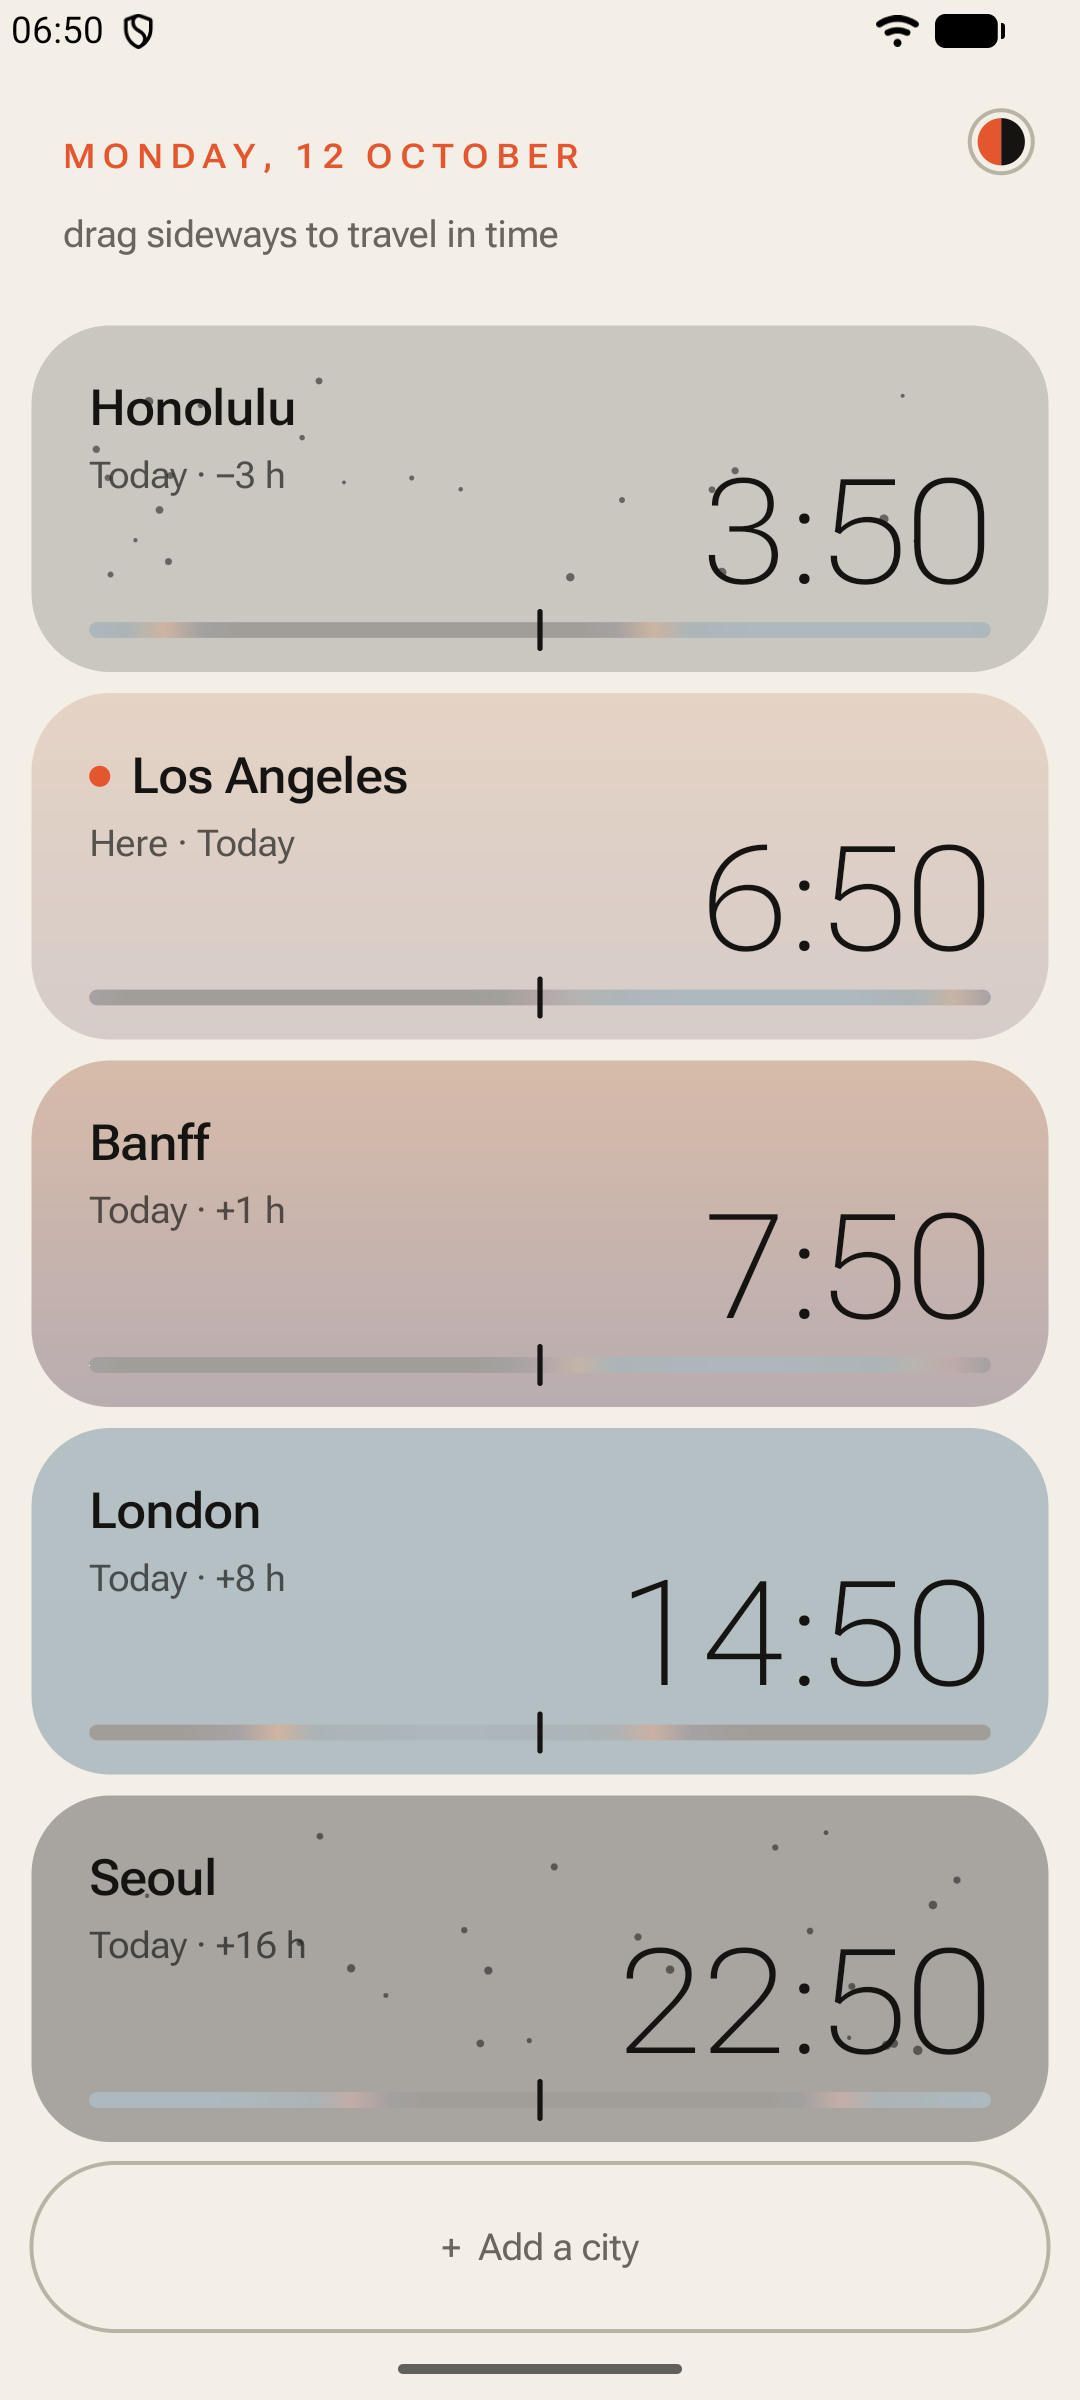
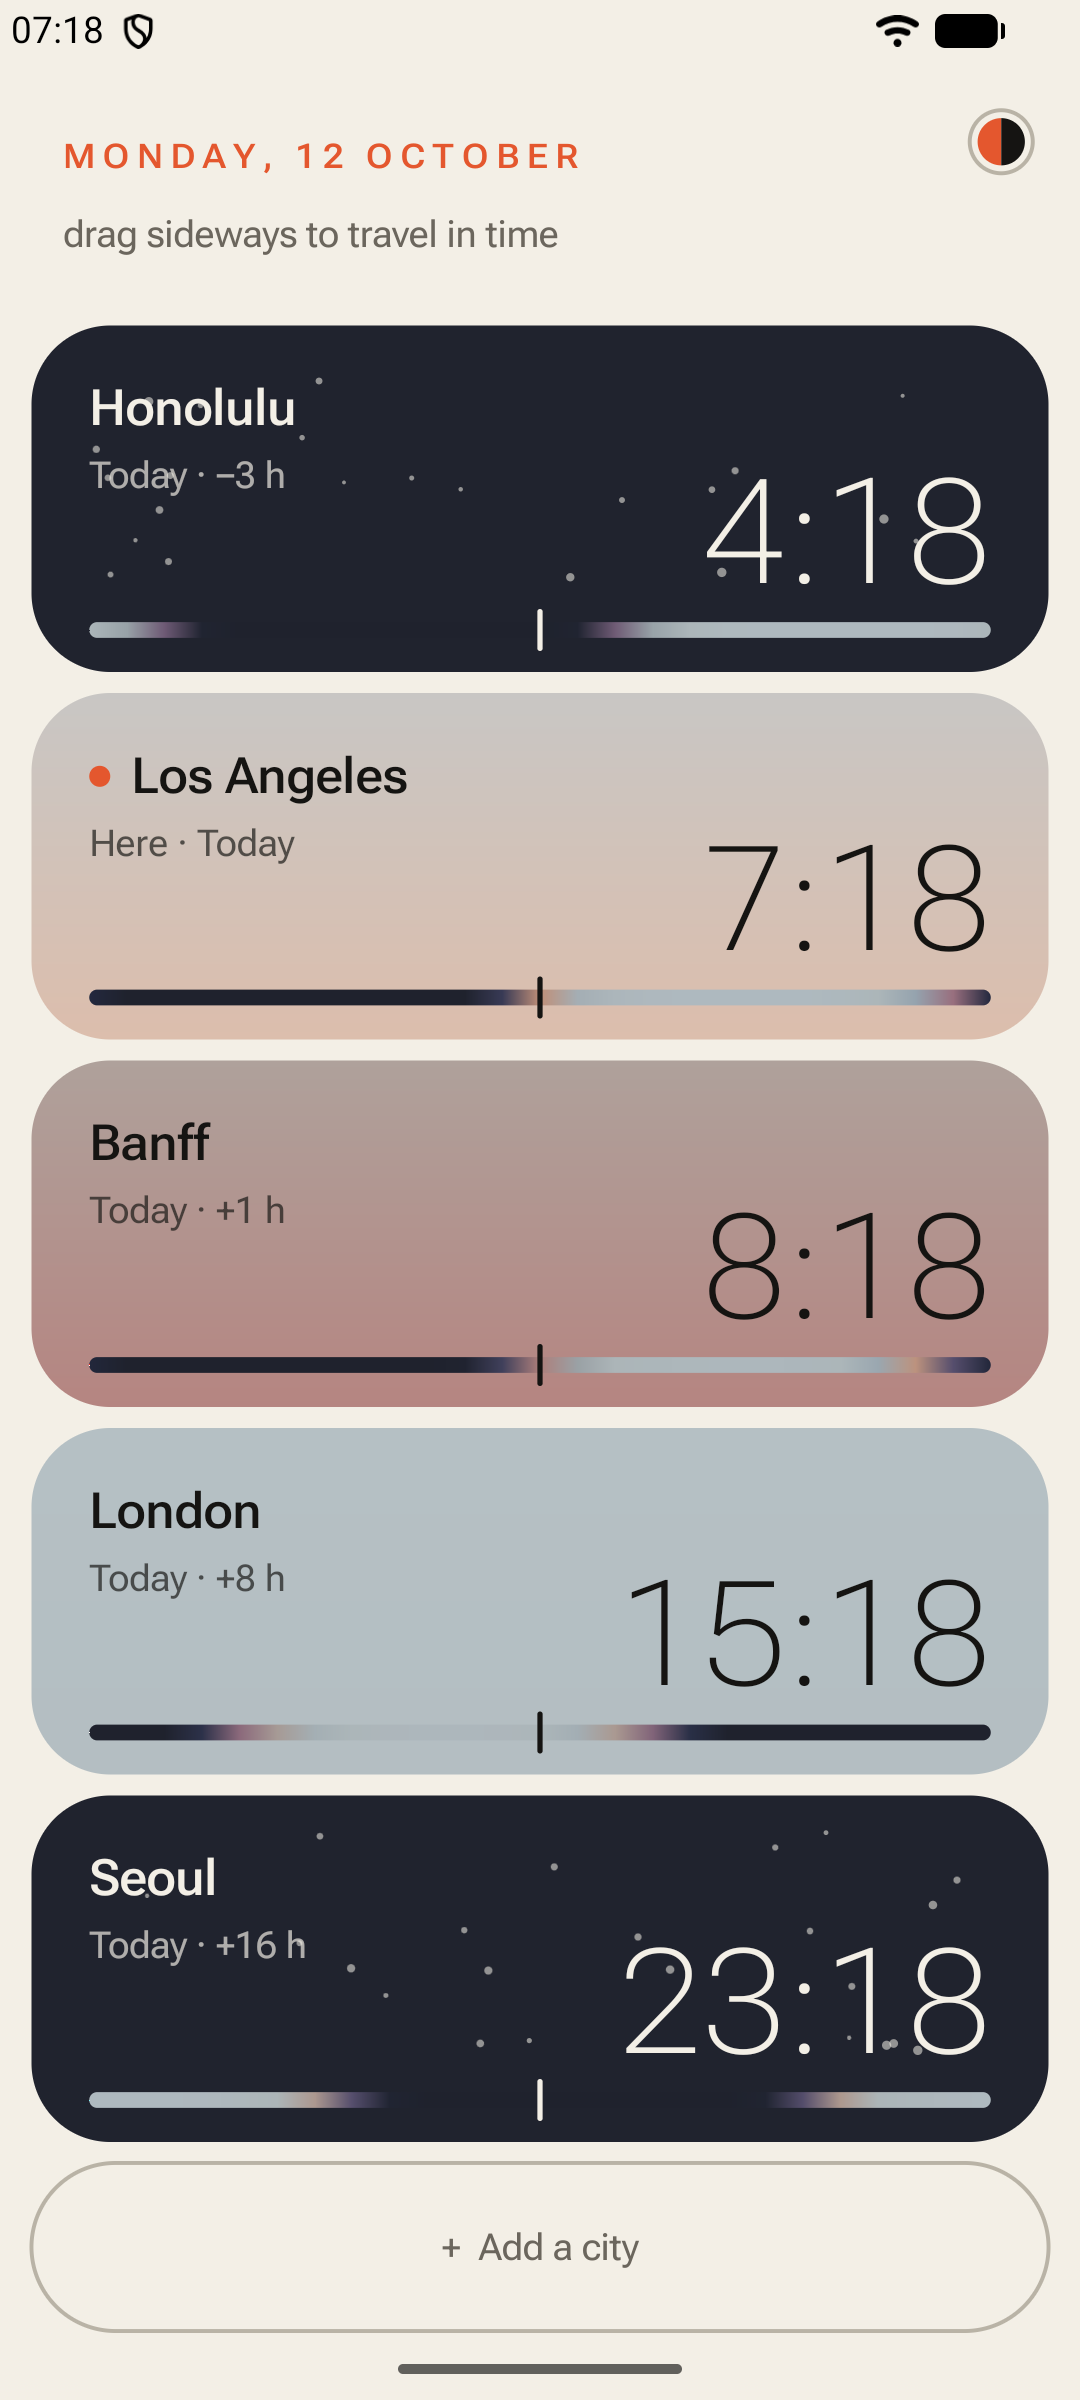
Paper: dark night skies with light stars
Paper washed every sky 72% toward the page colour, so night came out
pale grey with near-black stars: it read as an inverted sky. The wash
now deepens toward the real sky colour as the sun sets, and dark cards
flip their type, stars and controls to the paper colour.

Updates the Paper screenshot.

Made with Claude Code.

diff --git a/app/src/main/java/org/robbiemed/zones/MainActivity.kt b/app/src/main/java/org/robbiemed/zones/MainActivity.kt
@@ -22,6 +22,7 @@ import org.robbiemed.clock.core.Themes
 import org.robbiemed.clock.core.alpha
 import org.robbiemed.clock.core.clock
 import org.robbiemed.clock.core.edgeToEdge
+import org.robbiemed.clock.core.mix
 import org.robbiemed.clock.core.no
 import org.robbiemed.clock.core.store
 import org.robbiemed.clock.core.tick
@@ -159,7 +160,11 @@ class MainActivity : Activity() {
                     fill.shader = LinearGradient(0f, row.r.top, 0f, row.r.bottom, skyHi, sky, Shader.TileMode.CLAMP)
                     c.drawRoundRect(row.r, dp(30f), dp(30f), fill)
                     fill.shader = null
-                    if (el < -4) stars(c, row.r, ct.name.hashCode(), ((-4 - el) / 10).toFloat().coerceIn(0f, 1f))
+                    // Paper's night cards are dark: flip their type and stars to the paper colour.
+                    val ink = if (pal.light && Sky.lum(mix(sky, skyHi, 0.5f)) < 0.5f) pal.bg else pal.ink
+                    val paper = if (ink == pal.ink) pal.bg else pal.ink
+                    name.color = ink; time.color = ink; ampm.color = alpha(ink, 0.7f); rel.color = alpha(ink, 0.68f)
+                    if (el < -4) stars(c, row.r, ct.name.hashCode(), ((-4 - el) / 10).toFloat().coerceIn(0f, 1f), if (pal.light) pal.bg else pal.ink)
 
                     val cal = Calendar.getInstance(ct.zone).apply { timeInMillis = now }
                     val (hm, ap) = context.clock(cal.get(Calendar.HOUR_OF_DAY), cal.get(Calendar.MINUTE))
@@ -172,14 +177,14 @@ class MainActivity : Activity() {
                     if (removing === row) {
                         val bw = dp(120f); val bh = dp(52f)
                         removeR.set(row.r.right - dp(20f) - bw, row.r.centerY() - bh / 2, row.r.right - dp(20f), row.r.centerY() + bh / 2)
-                        fill.color = pal.ink; c.drawRoundRect(removeR, bh / 2, bh / 2, fill)
-                        chipT.color = pal.bg
+                        fill.color = ink; c.drawRoundRect(removeR, bh / 2, bh / 2, fill)
+                        chipT.color = paper
                         c.text(if (row.here) "Hide" else "Remove", removeR.centerX(), removeR.centerY() + chipT.textSize * 0.36f, chipT, Paint.Align.CENTER)
                         if (row.here) {
                             renameR.set(removeR.left - dp(12f) - bw, removeR.top, removeR.left - dp(12f), removeR.bottom)
-                            line.color = pal.ink; line.strokeWidth = dp(1.5f)
+                            line.color = ink; line.strokeWidth = dp(1.5f)
                             c.drawRoundRect(renameR, bh / 2, bh / 2, line)
-                            chipT.color = pal.ink
+                            chipT.color = ink
                             c.text("Rename", renameR.centerX(), renameR.centerY() + chipT.textSize * 0.36f, chipT, Paint.Align.CENTER)
                         }
                     } else {
@@ -198,7 +203,7 @@ class MainActivity : Activity() {
                     strip.shader = LinearGradient(sx0, 0f, sx1, 0f, bright, null, Shader.TileMode.CLAMP)
                     c.drawRoundRect(sx0, sy - dp(3f), sx1, sy + dp(3f), dp(3f), dp(3f), strip)
                     strip.shader = null
-                    line.color = pal.ink; line.strokeWidth = dp(2f)
+                    line.color = ink; line.strokeWidth = dp(2f)
                     val mx = (sx0 + sx1) / 2
                     c.drawLine(mx, sy - dp(7f), mx, sy + dp(7f), line)
                 }
@@ -219,9 +224,9 @@ class MainActivity : Activity() {
         }
 
         /** A few fixed stars per city, fading in as the sun drops below the horizon. */
-        private fun stars(c: Canvas, r: RectF, seed: Int, k: Float) {
+        private fun stars(c: Canvas, r: RectF, seed: Int, k: Float, color: Int) {
             var x = seed.toLong() and 0xffffffffL
-            fill.color = alpha(pal.ink, 0.55f * k)
+            fill.color = alpha(color, 0.55f * k)
             for (i in 0 until 22) {
                 x = (x * 1103515245 + 12345) and 0x7fffffff
                 val fx = (x % 1000) / 1000f

diff --git a/app/src/main/java/org/robbiemed/zones/Sky.kt b/app/src/main/java/org/robbiemed/zones/Sky.kt
@@ -42,15 +42,17 @@ object Sky {
         return stops.last().second
     }
 
+    fun lum(c: Int) = (0.30f * Color.red(c) + 0.59f * Color.green(c) + 0.11f * Color.blue(c)) / 255f
+
     /** The sky, re-voiced in the active theme (Night = luminance in red only). */
     fun color(el: Double, pal: Palette, theme: String): Int {
         val c = natural(el)
-        val lum = (0.30f * Color.red(c) + 0.59f * Color.green(c) + 0.11f * Color.blue(c)) / 255f
+        val lum = lum(c)
         val day = ((el + 12) / 30).toFloat().coerceIn(0f, 1f)
         return when (theme) {
             "Night" -> Color.rgb((40 + 150 * lum * 1.6f).toInt().coerceAtMost(200), 0, 0).let { mix(0xFF080000.toInt(), it, 0.25f + 0.5f * day) }
             "Mono" -> mix(0xFF050505.toInt(), 0xFF5A5A5A.toInt(), day * 0.9f)
-            "Paper" -> mix(pal.surface, c, 0.28f)
+            "Paper" -> mix(pal.surface, c, 0.28f + 0.62f * (1 - day)) // pale wash by day, deepening to ink at night
             "Ember" -> mix(c, 0xFF3A1A06.toInt(), 0.45f)
             "Glacier" -> mix(c, 0xFF06223A.toInt(), 0.35f)
             else -> mix(c, pal.deep, 0.18f)
